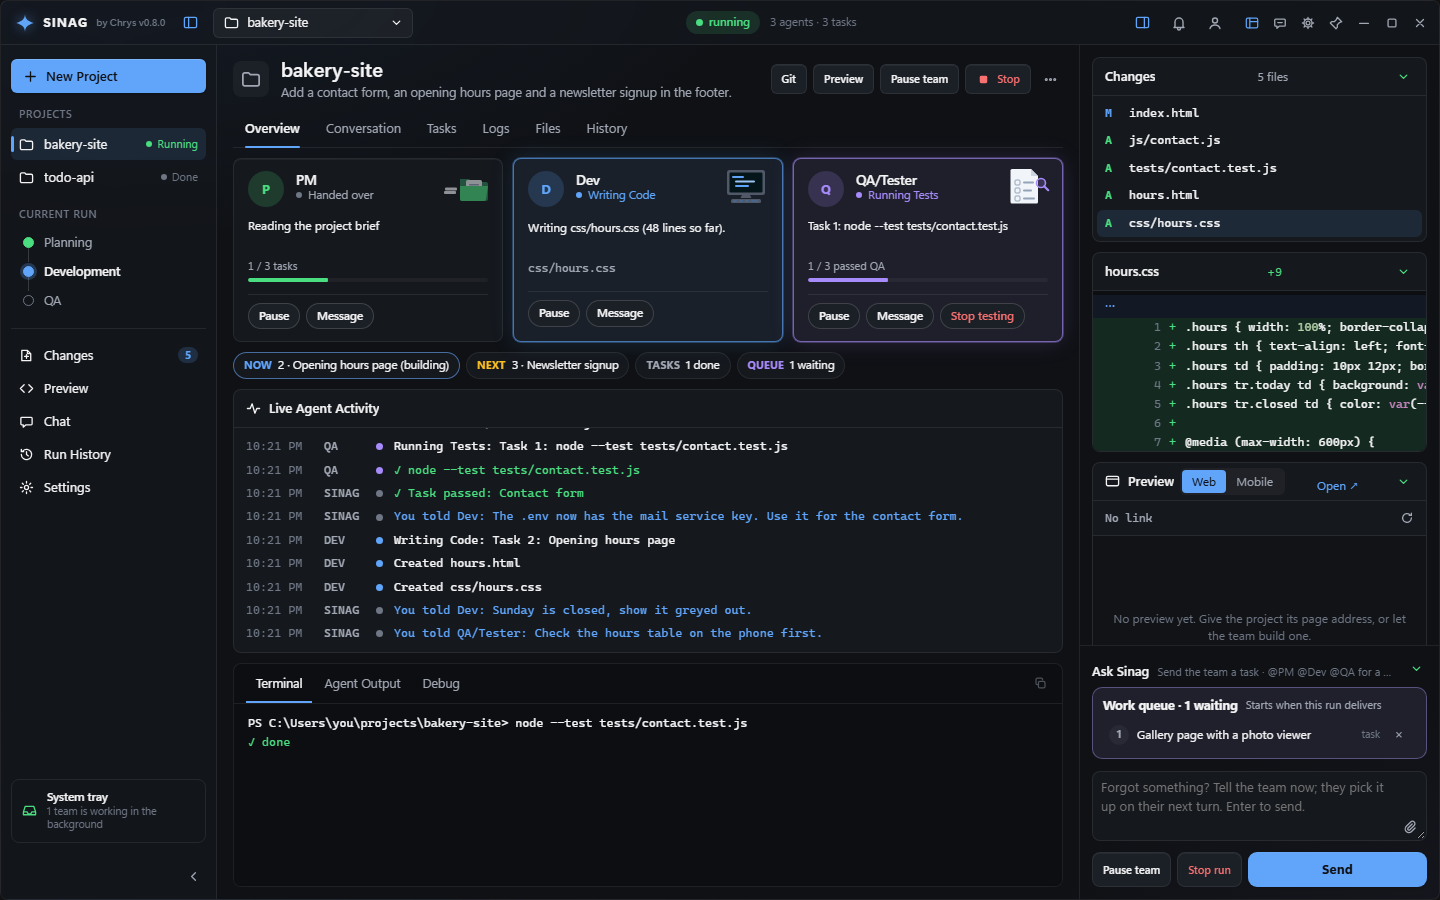
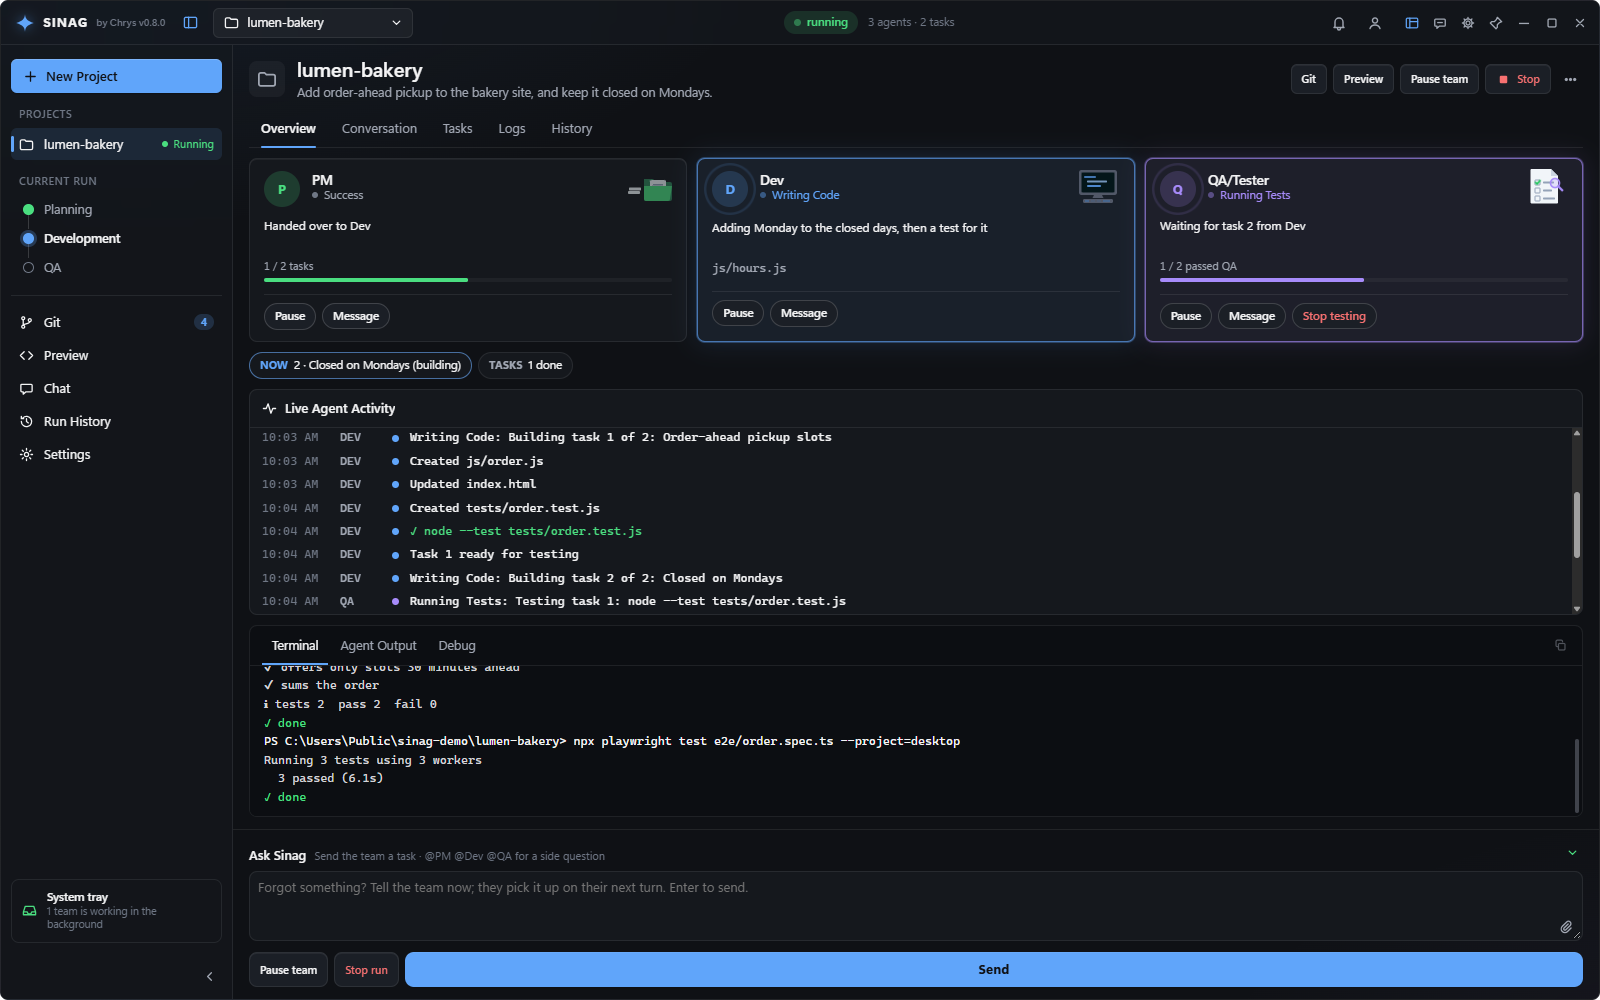
docs: README for 0.9.2

diff --git a/README.md b/README.md
@@ -86,6 +86,10 @@ while Sinag is in use, and a new key adds its hours to what you have left.
 ## What Sinag does
 
 **You describe the work, the team delivers it.**
+- **Talk it through first.** When you press Run, the PM checks your project and tells you whether it
+  can be done here, what it understood, what each agent would do and what it needs from you. Reply
+  as many times as you like; the plan comes only when you choose **Write the plan**, or **Stop** to
+  end there. Turn it off in Settings → Team & runs (**Discuss with the PM before the plan**).
 - **PM** reads your project, checks that the request is clear and sound, asks you first when
   something isn't right (and says why), and shows you the plan. Nothing is built until you choose
   **Begin**; choose **Additional** to add something and the PM updates the plan first, or
@@ -98,6 +102,11 @@ while Sinag is in use, and a new key adds its hours to what you have left.
 - **UI work uses the design skills.** When the task touches the look of your app, the team uses its
   UI/UX, design and animation skills and avoids generic "AI-made" defaults, and QA checks the
   result against the same list.
+- **Engineering skills on every task.** The PM plans with architecture and feature-planning
+  skills, the developer builds test-first, debugs by root cause and proves the work before handing
+  over, and QA hunts edge cases and security holes (XSS, injection, secrets) on top of the tests.
+- **You see helper agents.** When an agent hands part of a job to a helper agent, the conversation
+  says what job it got and shows every step it takes.
 - **Task by task.** The PM splits the work into tasks; tasks that change the same files go
   together. The developer builds them one after another while **QA** tests each finished one
   straight away, so the two work at the same time.
@@ -227,6 +236,10 @@ are used.
 - **Agents are fenced in.** The PM and QA can only read. The developer can only edit and run
   install and test commands, and risky commands always ask you. No agent can read `.env` or key
   files.
+- **Web access is checked.** Reading a page or searching runs on its own. Anything harmful (running
+  downloaded code, sending your data or a login out, saving a downloaded file, connecting to another
+  computer) asks you first, saying what it is and what will happen if you allow it.
+- **Every change is checked for secrets and XSS** before QA tests it, without using tokens.
 - **Found a security problem?** Report it privately through the
   [Security tab](https://github.com/chrysanly/sinag-agents/security) (**Report a
   vulnerability**), not in a public issue.
